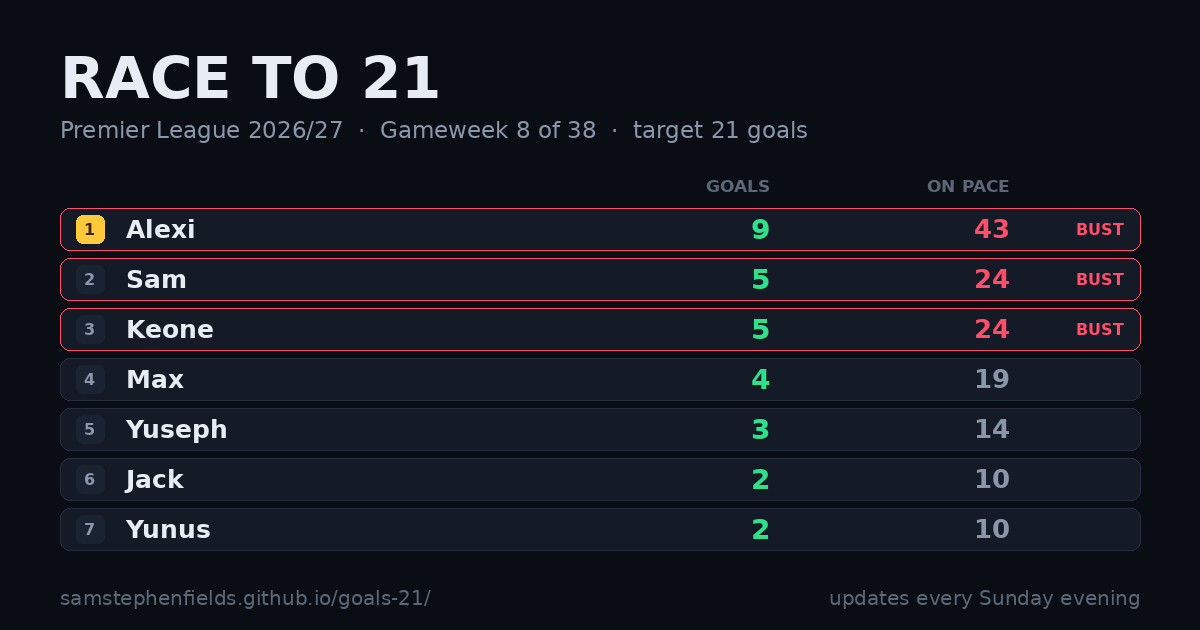
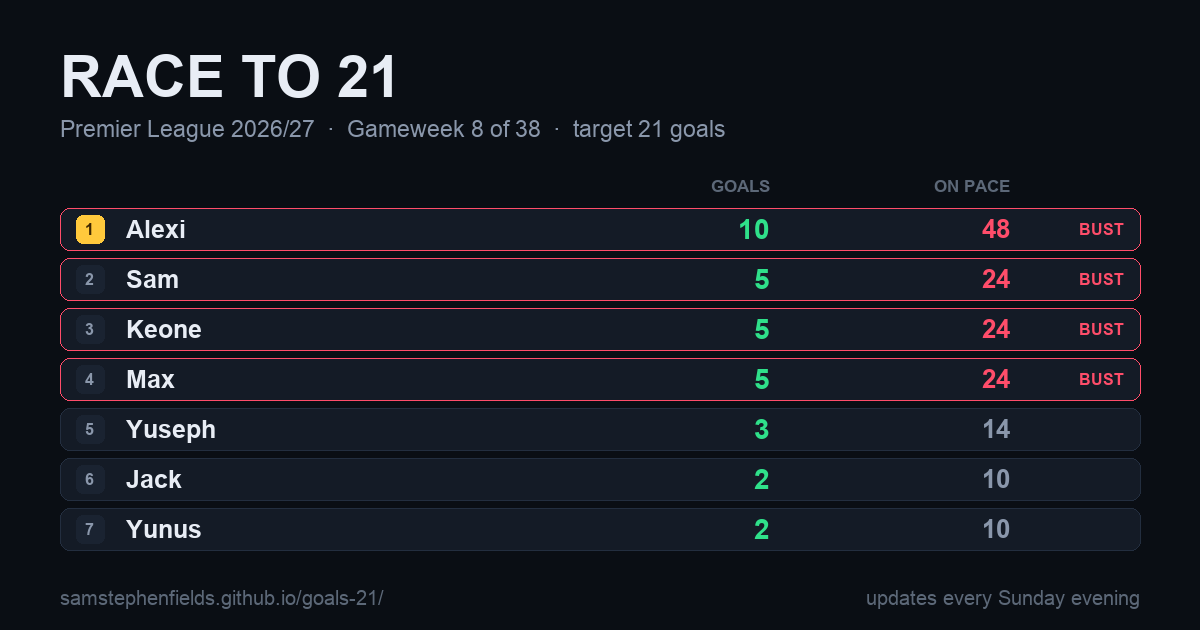
State the real rule, and rank by it
The heading promised the first to land exactly 21, which was never the
game. It is closest to 21 at the end of the season without going over.

That correction reached the ranking too. Both tables sorted by distance
from 21 in either direction, which put someone three over above someone
four under — on the stated rule the first is out and the second is not.
Nearest from below now leads, and anyone past the line sorts below
everyone still in it. Since goals only accumulate, going over cannot be
undone, so a bust card now reads "no way back".

The footer credits where xG comes from: the per-player records in the
same Premier League feed, which is a different endpoint from the season
totals already linked.

diff --git a/index.html b/index.html
@@ -9,7 +9,7 @@
 <meta name="description" content="Four players. Twenty-one goals. The 2026/27 Premier League sweepstake.">
 <!-- og:start --><!-- rewritten by scripts/make_og.py; edit there, not here -->
 <meta property="og:title" content="Race to 21">
-<meta property="og:description" content="Gameweek 8 — Alexi leads on 9, on pace for 43. Four players each, target 21.">
+<meta property="og:description" content="Gameweek 8 — Alexi leads on 10, on pace for 48. Four players each, target 21.">
 <meta property="og:type" content="website">
 <meta property="og:url" content="https://samstephenfields.github.io/goals-21/">
 <meta property="og:image" content="https://samstephenfields.github.io/goals-21/og.png?gw=9">
@@ -263,7 +263,7 @@
   <header>
     <div class="kicker">⚽ Premier League <span id="season">2026/27</span></div>
     <h1>Race to 21</h1>
-    <p class="sub">Four players each. First to land <b>exactly 21</b> goals takes it.</p>
+    <p class="sub">Four players each. Closest to <b>21</b> at the end of the season wins — go over and you’re out for good.</p>
     <div class="meta" id="meta"></div>
   </header>
   <div class="views" role="group" aria-label="Table view">
@@ -274,7 +274,7 @@
   <main id="app"><div class="state">Loading the latest goals…</div></main>
   <section id="chart" class="chart" hidden></section>
   <footer>
-    Goals from the official <a id="feed" href="https://fantasy.premierleague.com/api/bootstrap-static/" target="_blank" rel="noopener">Premier League data feed</a> · own goals not counted<br>
+    Goals and <a id="xgfeed" href="https://fantasy.premierleague.com/api/element-summary/40/" target="_blank" rel="noopener" title="Expected goals, match by match, from each player’s record in the same feed">xG</a> from the official <a id="feed" href="https://fantasy.premierleague.com/api/bootstrap-static/" target="_blank" rel="noopener">Premier League data feed</a> · own goals not counted<br>
     Browse the <a href="https://www.premierleague.com/stats/top/players/goals" target="_blank" rel="noopener">full Premier League scorer list</a><br>
     Updates automatically every Sunday evening, once the day’s matches are done
   </footer>
@@ -487,6 +487,7 @@ function render(d) {
   DATA = d;
   document.getElementById('season').textContent = d.season;
   if (d.sourceUrl) document.getElementById('feed').href = d.sourceUrl;
+  if (d.xgSourceUrl) document.getElementById('xgfeed').href = d.xgSourceUrl;
 
   const when = new Date(d.generated).toLocaleString('en-GB', {
     day: 'numeric', month: 'short', hour: '2-digit', minute: '2-digit', timeZone: 'Europe/London'
@@ -517,9 +518,14 @@ function luck(goals, xg) {
 
 function paint(d) {
   const pace = VIEW === 'pace';
+  // Same rule as the server uses for the live table: nearest to the target from
+  // below, with anyone past it sorted out of contention.
+  const standing = v => [v > d.target ? 1 : 0, v > d.target ? v : -v];
   const people = pace
-    ? [...d.people].sort((a, b) =>
-        Math.abs(a.projectedRemaining) - Math.abs(b.projectedRemaining) || a.projected - b.projected)
+    ? [...d.people].sort((a, b) => {
+        const [ab, av] = standing(a.projected ?? 0), [bb, bv] = standing(b.projected ?? 0);
+        return ab - bb || av - bv;
+      })
     : d.people;
 
   document.getElementById('paceNote').textContent = pace
@@ -534,7 +540,7 @@ function paint(d) {
     const lead  = rank === 1 && value > 0 && !bust;
     const pct   = Math.min(100, (value / d.target) * 100);
 
-    const togo = bust ? `<b>${value - d.target}</b> over the line`
+    const togo = bust ? `<b>${value - d.target}</b> over — no way back`
                : hit ? 'On the number 🎯'
                : `<b>${d.target - value}</b> to go`;
 

diff --git a/scripts/update.py b/scripts/update.py
@@ -191,8 +191,13 @@ def main():
             "bust": total > picks["target"],
         })
 
-    # Closest to the target first; if level, fewer goals leads (still climbing).
-    people.sort(key=lambda p: (abs(p["remaining"]), p["total"]))
+    # Closest to the target without passing it. Going over is terminal -- goals
+    # only accumulate -- so anyone bust sorts below everyone still in it.
+    def standing(total):
+        over = total > picks["target"]
+        return (1 if over else 0, total if over else -total)
+
+    people.sort(key=lambda p: standing(p["total"]))
     for i, p in enumerate(people):
         p["rank"] = i + 1
 
@@ -208,6 +213,7 @@ def main():
         "totalGameweeks": len(data["events"]),
         "source": "Premier League Fantasy API",
         "sourceUrl": API,
+        "xgSourceUrl": PLAYER_API % 40,
         "clubs": picks["clubs"],
         "people": people,
     }

diff --git a/README.md b/README.md
@@ -1,7 +1,9 @@
 # Race to 21
 
 A scoreboard for a Premier League sweepstake: everyone picks four players, and
-the aim is for their combined 2026/27 league goals to total exactly **21**.
+whoever's combined 2026/27 league goals finish **closest to 21 without going
+over** wins. Goals only accumulate, so passing 21 is terminal — the table sorts
+anyone bust below everyone still in it.
 
 **Live page:** https://samstephenfields.github.io/goals-21/
 
@@ -41,8 +43,9 @@ extra scripting. Team news from the feed shows as an INJ, DOUBT or SUSP flag on
 the player's row.
 
 **Now / On pace** switches the table between goals scored and a naive
-extrapolation over all 38 gameweeks. It reorders the board, because leading on
-goals and being on course for exactly 21 are very different things.
+extrapolation over all 38 gameweeks. Both views rank by the same rule — nearest
+to 21 from below, bust last — so the pace view can show someone leading on goals
+sitting bottom, because their pace takes them past the line.
 
 **The season chart** plots each person's cumulative goals gameweek by gameweek
 against the target line. The curves are rebuilt from the per-match data on every
